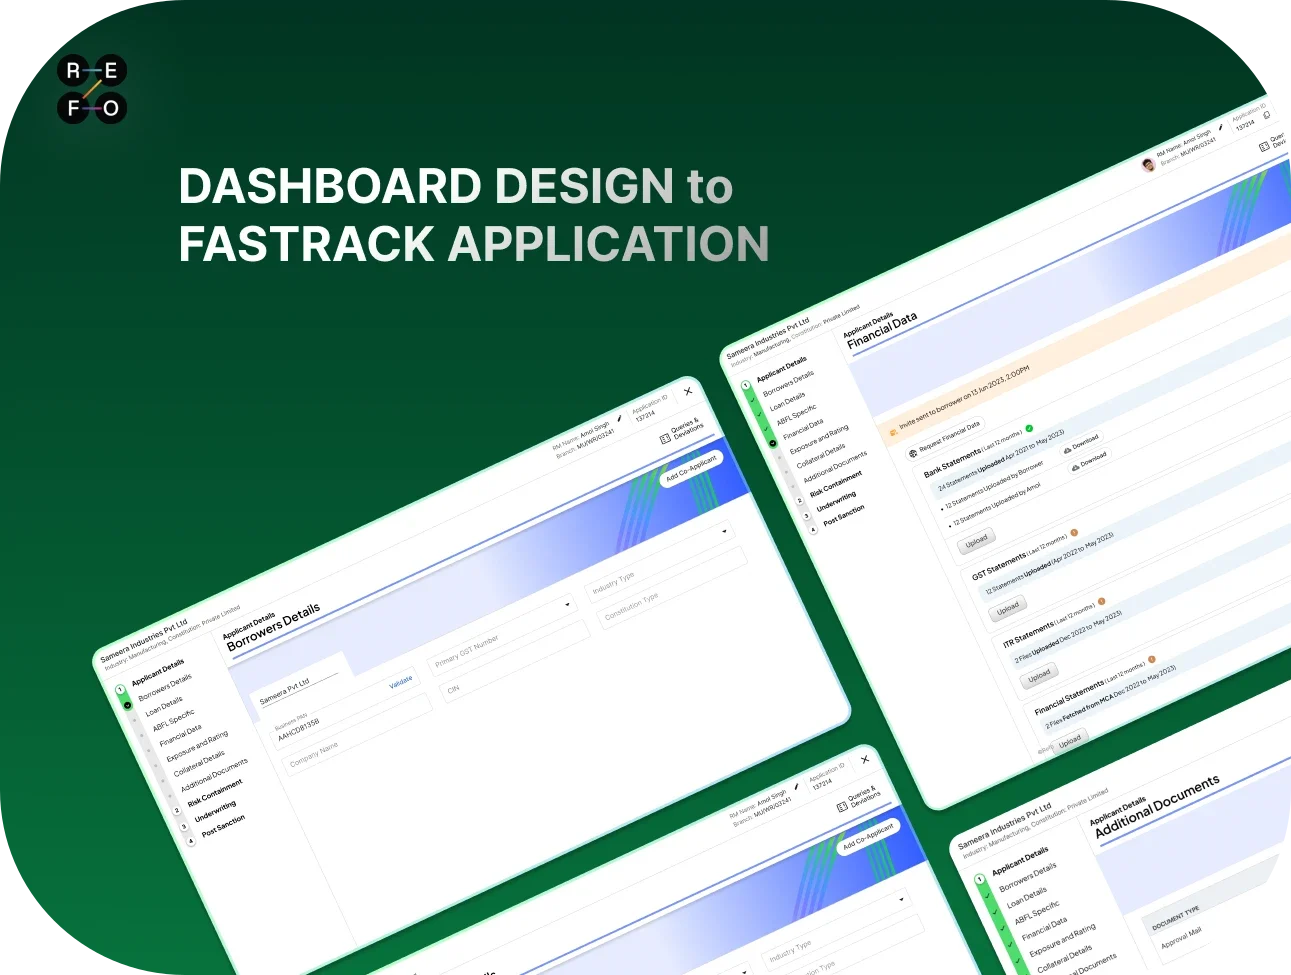
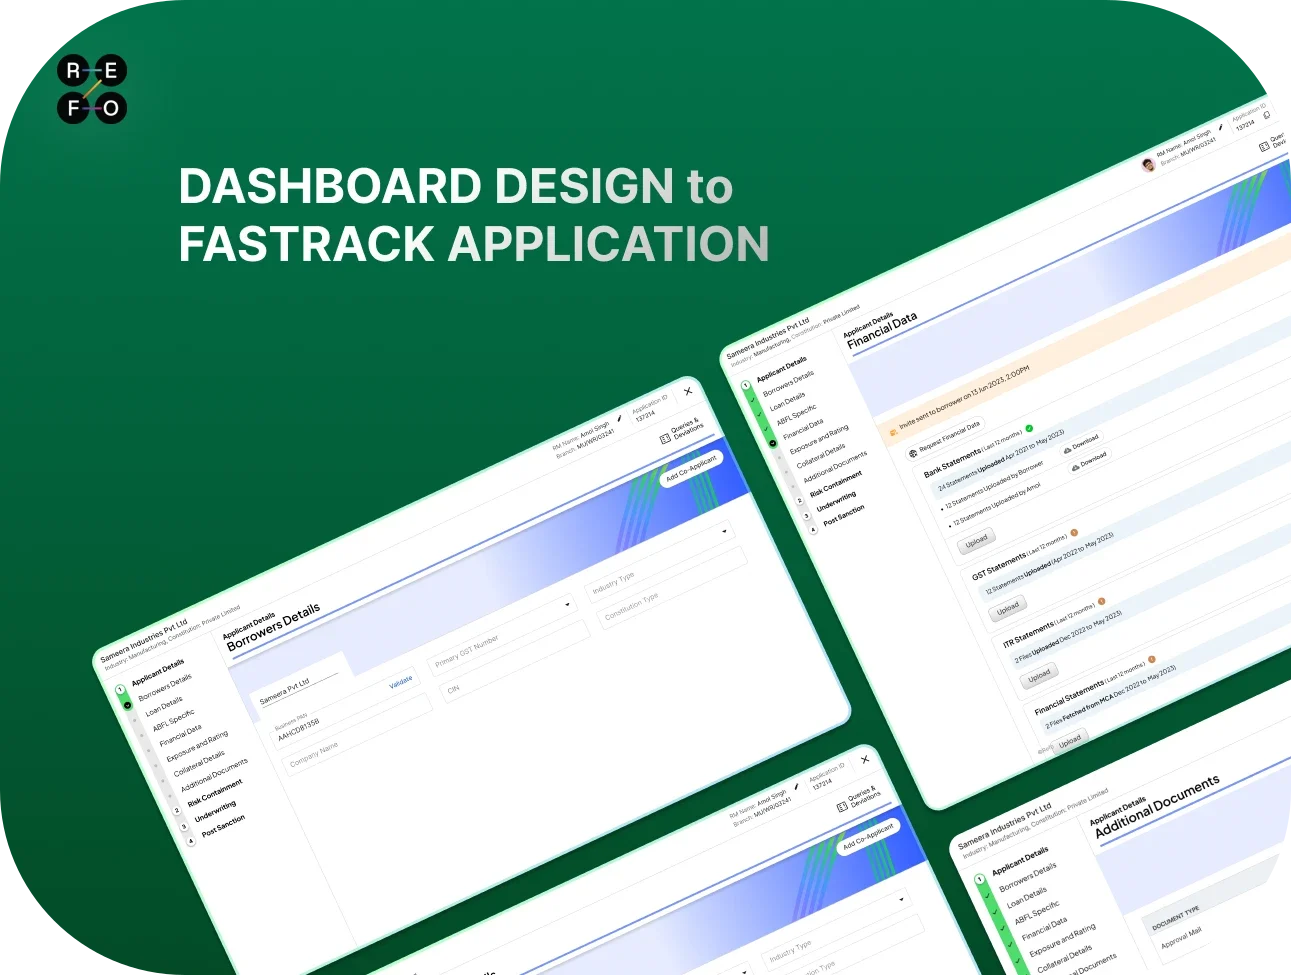
home: updated REFO cover (?v=5)

diff --git a/index.html b/index.html
@@ -741,7 +741,7 @@ main { overflow-x: clip; }
 
     <article class="card flip" style="--pa:#3ee6a8;--pb:#0b6e78">
       <a class="panel cover" href="refo.html" aria-label="Open the REFO case study">
-        <img src="assets/work/refo-cover.webp?v=4" alt="REFO, dashboard design to fastrack applications: loan application screens for borrower details, financial data and additional documents" width="1306" height="986" loading="lazy">
+        <img src="assets/work/refo-cover.webp?v=5" alt="REFO, dashboard design to fastrack applications: loan application screens for borrower details, financial data and additional documents" width="1306" height="986" loading="lazy">
       </a>
       <div class="card-copy">
         <p class="kind">Refo</p>
